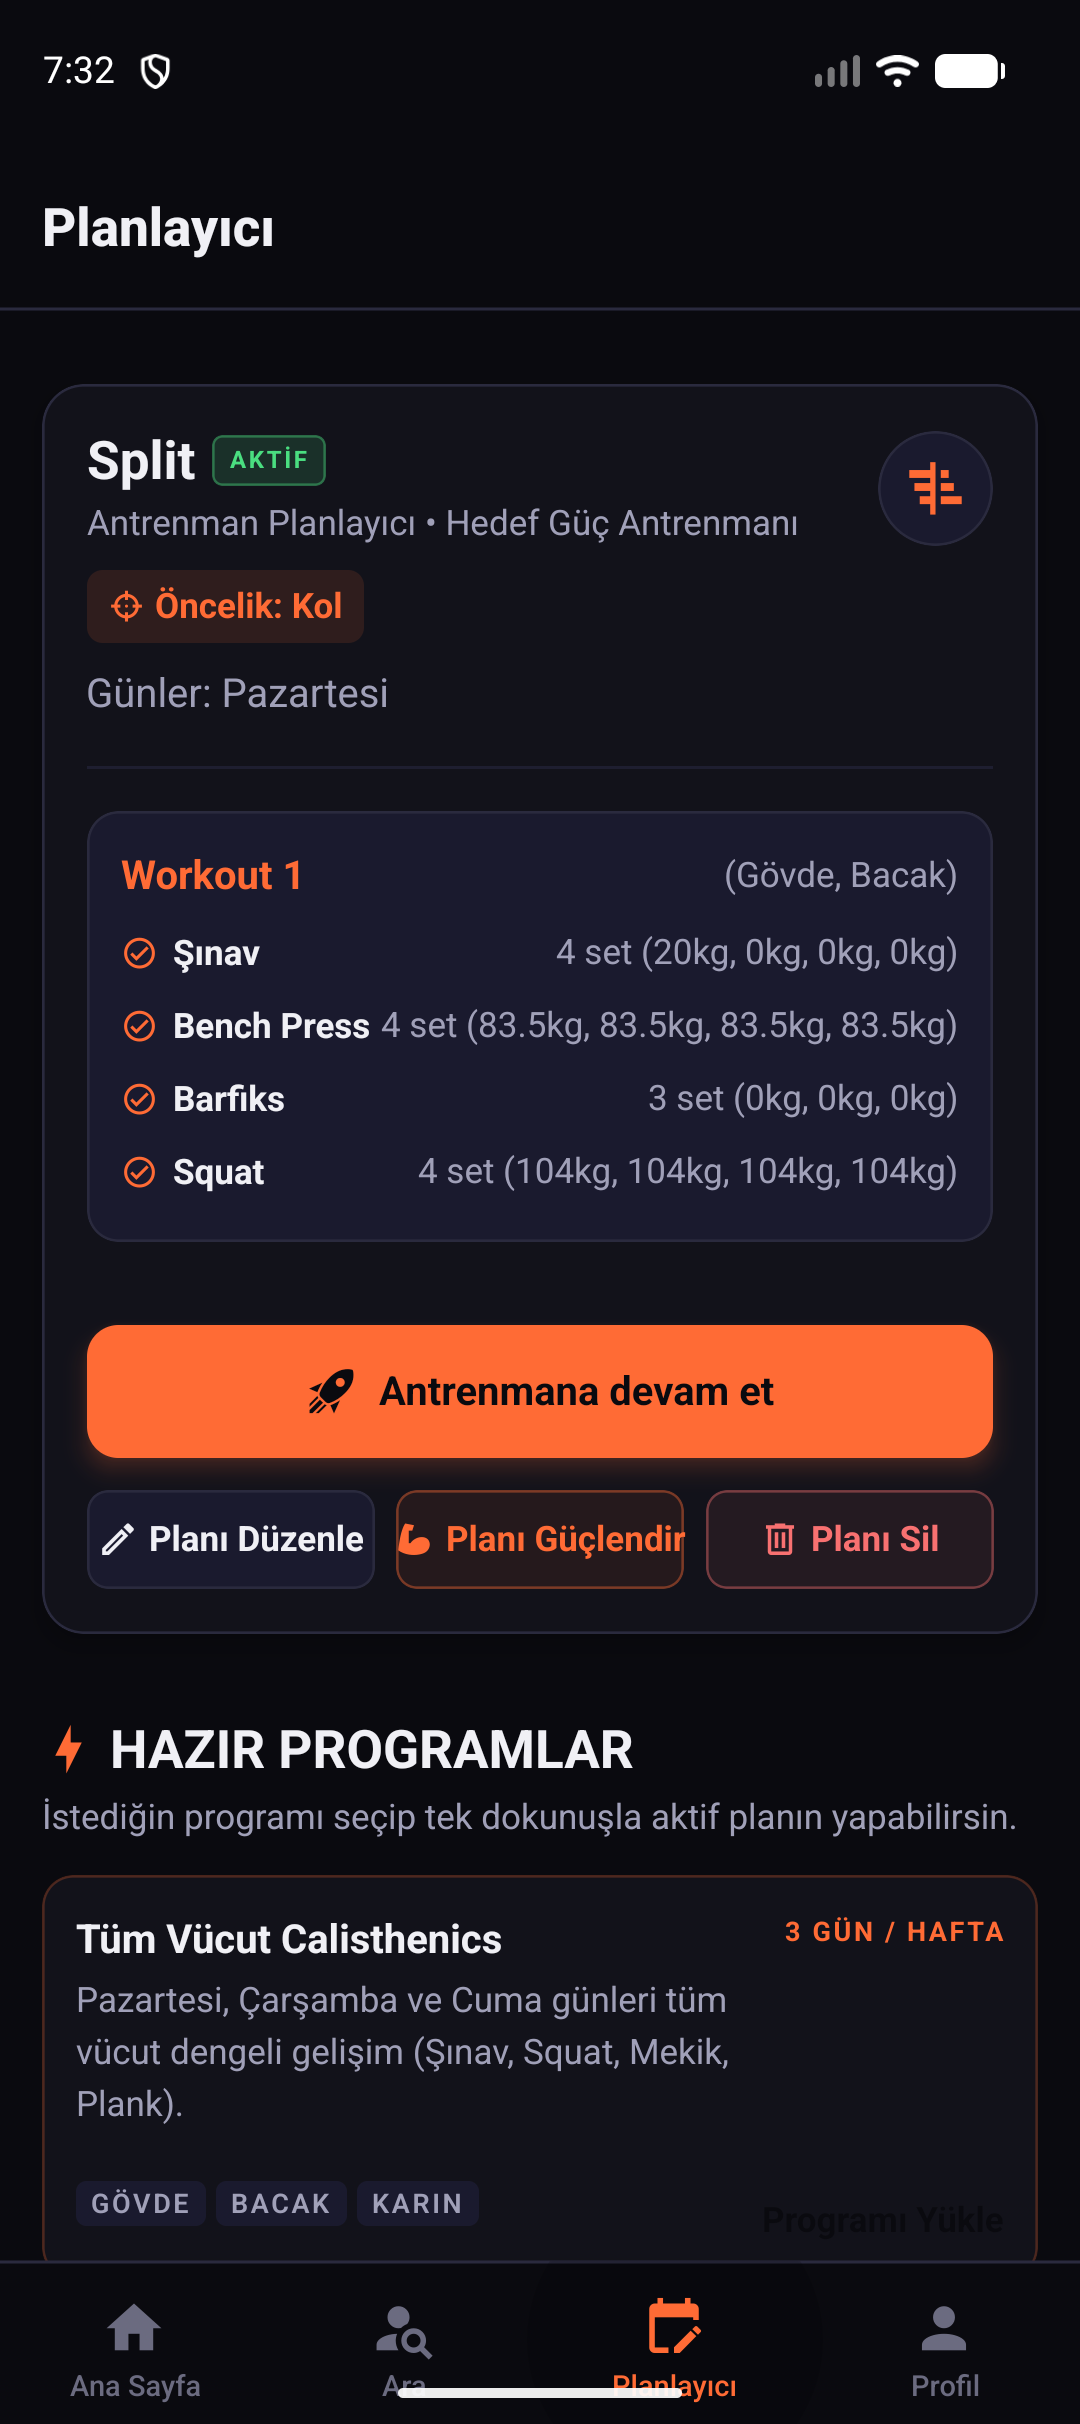
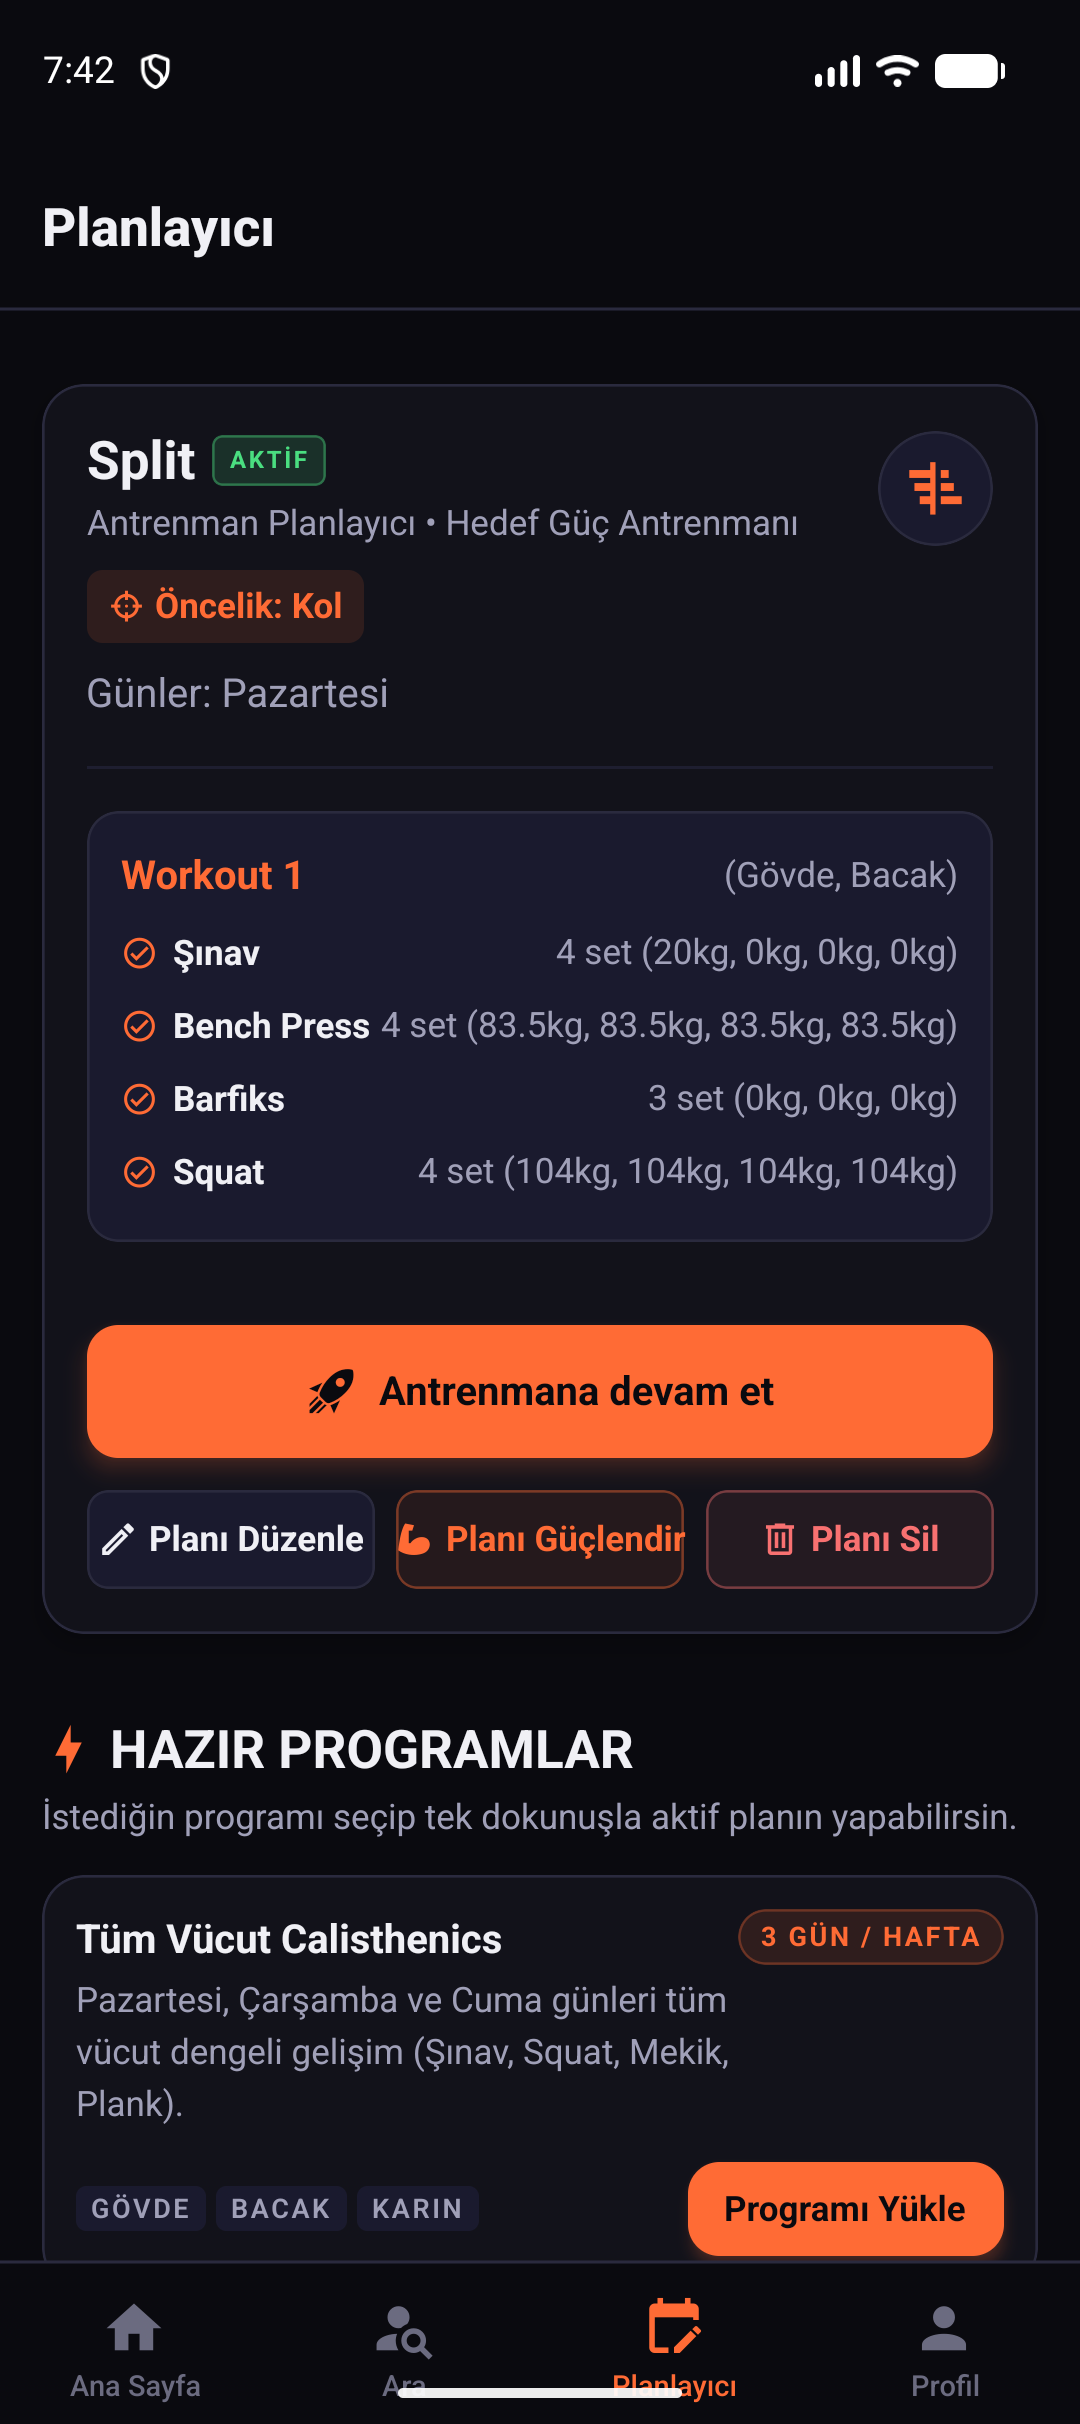
feat(planner): style preset program apply button with prominent glowing CTA and pill badges

diff --git a/src/screens/PlannerScreen.tsx b/src/screens/PlannerScreen.tsx
@@ -931,7 +931,7 @@ export default function PlannerScreen() {
                     {preset.description}
                   </Typography>
                 </View>
-                <View style={styles.presetBadge}>
+                <View style={styles.presetPillBadge}>
                   <Typography variant="label" bold color={theme.colors.accent.primary} style={{ fontSize: 10 }}>
                     {preset.badge}
                   </Typography>
@@ -950,7 +950,7 @@ export default function PlannerScreen() {
                 </View>
 
                 <TouchableOpacity
-                  style={styles.presetApplyBtn}
+                  style={styles.presetSelectBtn}
                   onPress={() => handleSelectPreset(preset)}
                   activeOpacity={0.7}
                 >
@@ -1945,5 +1945,24 @@ const styles = StyleSheet.create({
     paddingHorizontal: 6,
     paddingVertical: 2,
     borderRadius: 4,
+  },
+  presetPillBadge: {
+    paddingHorizontal: 8,
+    paddingVertical: 3,
+    borderRadius: theme.borderRadius.round,
+    backgroundColor: 'rgba(255, 107, 53, 0.12)',
+    borderWidth: 1,
+    borderColor: 'rgba(255, 107, 53, 0.3)',
+  },
+  presetSelectBtn: {
+    backgroundColor: theme.colors.accent.primary,
+    paddingHorizontal: 14,
+    paddingVertical: 8,
+    borderRadius: theme.borderRadius.md,
+    shadowColor: theme.colors.accent.primary,
+    shadowOffset: { width: 0, height: 2 },
+    shadowOpacity: 0.35,
+    shadowRadius: 4,
+    elevation: 3,
   },
 });
